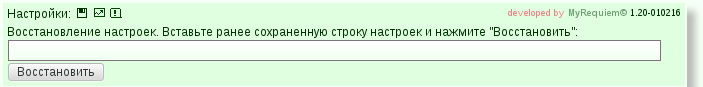
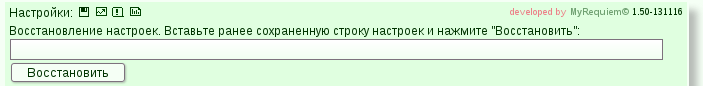
modified README.md

diff --git a/pymod/strs.py b/pymod/strs.py
@@ -44,7 +44,7 @@ how_to_install/0-31)
 ![Screen2]({1}imgs/screen2.png)
 <br>
 <br>
-*Сохранение/восстановление/сброс настроек:*
+*Сохранение/восстановление/сброс настроек, просмотр истории изменений:*
 ![Screen3]({1}imgs/screen3.png)
 <br>
 <br>
